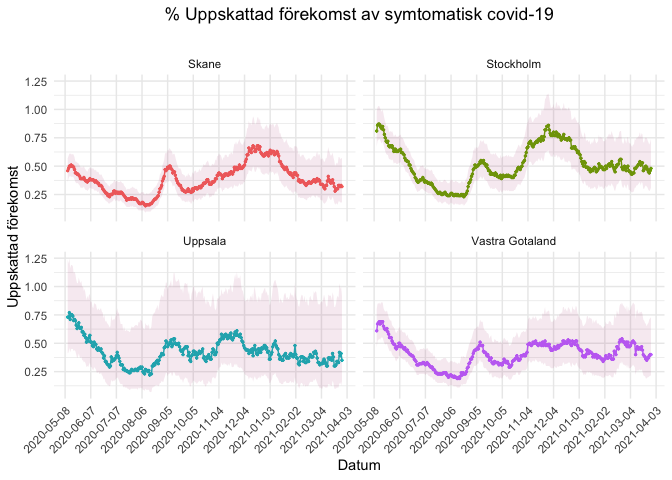
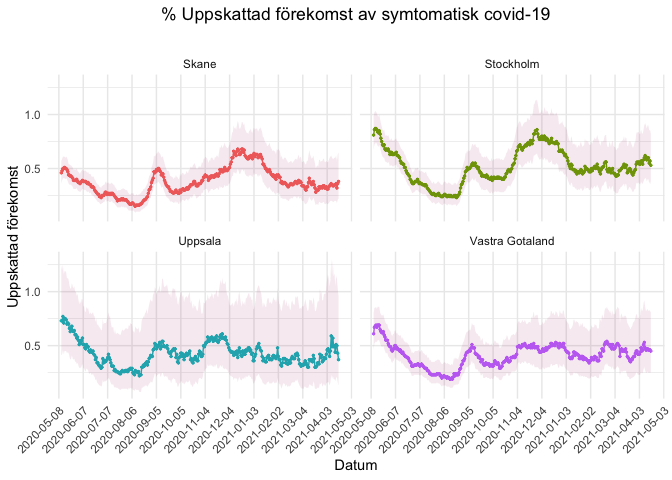
edit readme

diff --git a/README.md b/README.md
@@ -38,12 +38,14 @@ remotes::install_github("csss-resultat/covidsymptom")
 
 ## Update data
 
-Data from COVID Symptom Study - Sweden is updated on a daily basis. We
-have implemented the function `update_csss_data()` to update the
-datasets based on the
+In order to respect CRAN best use practices, we will only push a new
+version of the package with most recent data every one month. However,
+data from COVID Symptom Study - Sweden is updated on a daily basis, thus
+the dev version of the package is also updated daily. The function
+`update_csss_data()` (based on a similar function from the
 <a href = https://github.com/RamiKrispin/coronavirus> coronavirus
-package.</a> this functions updates the package to the dev version in
-GitHub.
+package),</a> checks updates to the dataset and re-install the package
+with the most recent data (dev version).
 
 ``` r
 library(covidsymptom)
@@ -52,7 +54,8 @@ update_csss_data()
 
 If you want to avoid updating the package to have the most recent data,
 you can use the function `get_latest_data()` to import the latest
-version available:
+version available. Notice however that this won’t re-write the package
+datasets.
 
 ``` r
 library(covidsymptom)
@@ -190,7 +193,7 @@ covidsymptom::postcode_estimates %>%
   theme(axis.text.x = element_text(angle = 45, hjust = 1), panel.grid.minor.x = element_blank(),
         legend.position = "none", plot.title = element_text(hjust = 0.5)) + 
   geom_ribbon(aes(ymin = Low_CI, ymax = High_CI), color = "transparent", fill = "#a60f61", alpha = 0.09) +
-  facet_wrap(. ~ Postnummer)   
+  facet_wrap(. ~ Postnummer, scales= "free")   
 ```
 
 <img src="man/figures/README-unnamed-chunk-6-1.png" width="100%" />
